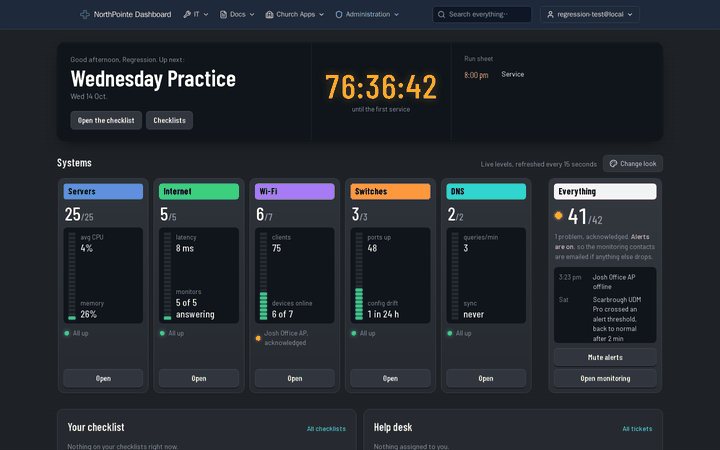
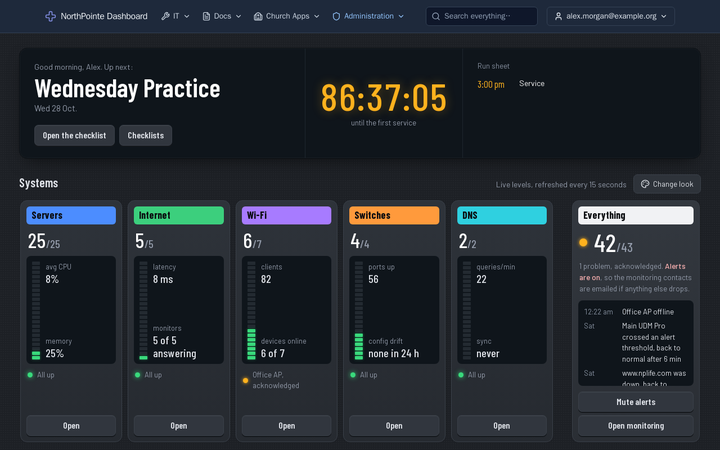
home looks: picker thumbnails use a generic person and device names

diff --git a/CLAUDE.md b/CLAUDE.md
@@ -879,6 +879,10 @@ the original concepts: `docs/dashboard-concepts/`): `tiles` (the original dragga
 - **Availability history:** `AvailabilitySampler` (`apps/api/src/availability/`, `ClusterJobs` jobs `availability-sample` every
   minute and `availability-prune`, 8 days) adds one up/down sample per system to `availability_hourly`; Glass's window and Toward
   Sunday's health strips read it. A source that is unconfigured or unreachable records nothing ("no data"), never "down".
+- **Picker thumbnails show a generic person and generic device names** (`apps/web/public/home-looks/<id>-light|dark.png`, 720x450, shot at
+  1280x800 and downscaled with LANCZOS: Chromium's fractional device scale factor kerns text badly). Re-shoot them signed in as the
+  regression user with `?theme=<id>`, and before each shot rewrite the page's text: the person is "Alex" / `alex.morgan@example.org`, real
+  device and host names become `Office AP`, `Main UDM Pro`, `*.example.org`. Never commit a thumbnail that shows a real name or host.
 - **Adding a look:** a `LOOK_IDS` entry and `DASHBOARD_LOOKS` definition (requires, includes, optionalSections, thumbnails
   `apps/web/public/home-looks/<id>-light|dark.png`), a folder under `looks/` whose root carries `data-look="<id>"`, an entry in
   `home-root.tsx`, and an e2e spec `tests/e2e/tests/home-<id>.spec.ts` that never performs a real action.
